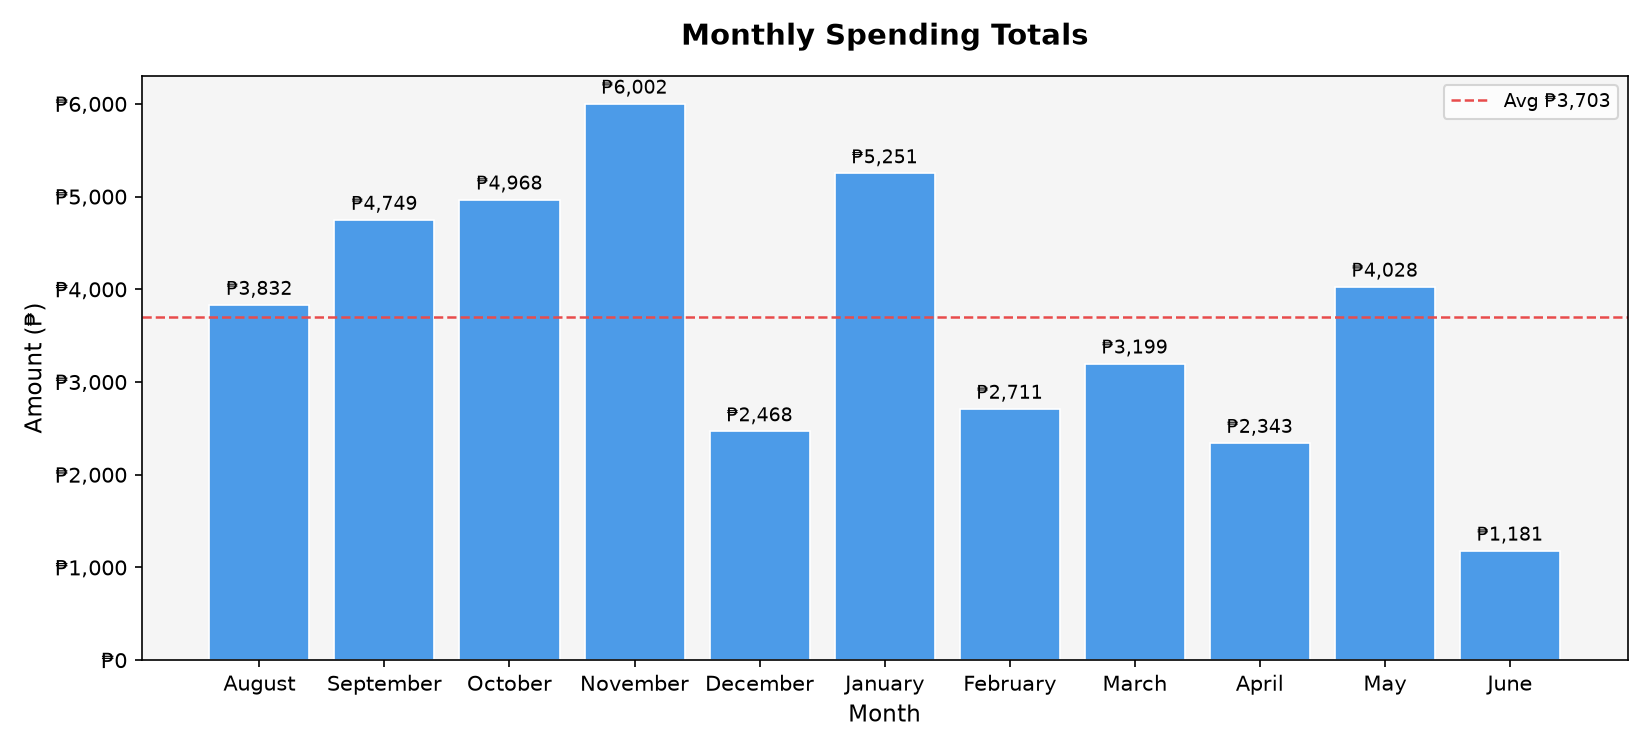
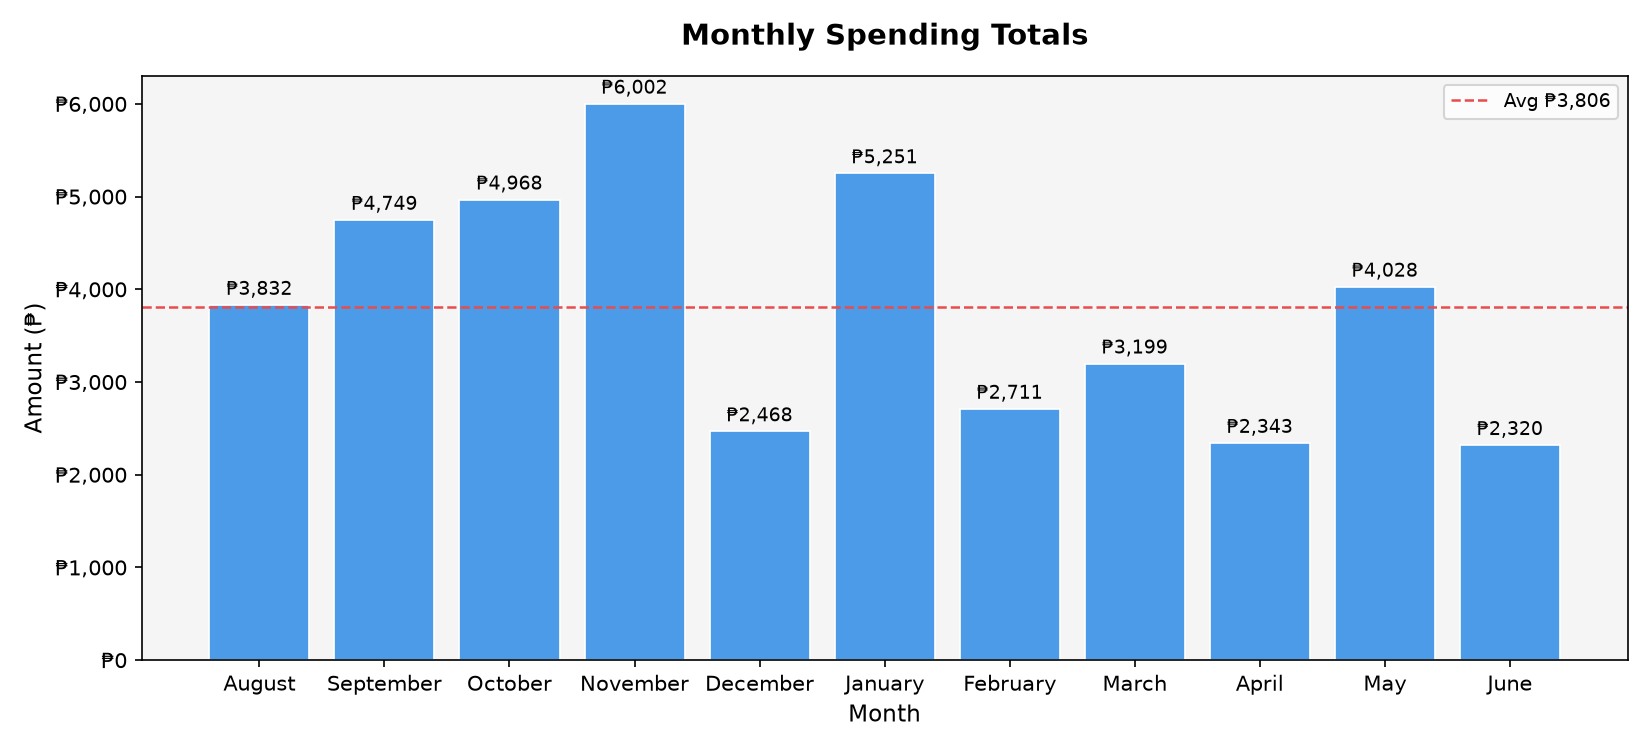
Resolved all pressing issues of PHASE 3

Changed region(s): [[0.0927, 0.3987, 0.9891, 0.4293], [0.8655, 0.552, 0.9582, 0.736], [0.9582, 0.1227, 0.9891, 0.1533]]

diff --git a/voice/listener.py b/voice/listener.py
@@ -11,7 +11,7 @@ import sys, os
 sys.path.append(os.path.dirname(os.path.dirname(os.path.abspath(__file__))))
 
 #Imported variables from config.py
-from config import SAMPLE_RATE, CHANNELS, WAKE_WORDS, NOISE_PATTERNS, CHUNK_SIZE, SILENCE_DURATION, SILENCE_THRESHOLD, FAIRY_GROQ_API_KEY, VOSK_MODEL_PATH, model, HIGHPASS_CUTOFF, MIC_GAIN
+from config import SAMPLE_RATE, CHANNELS, WAKE_WORDS, NOISE_PATTERNS, CHUNK_SIZE, SILENCE_DURATION, SILENCE_THRESHOLD, FAIRY_GROQ_API_KEY, VOSK_MODEL_PATH, model, HIGHPASS_CUTOFF, MIC_GAIN, MAX_RECORDING_DURATION
 #DSP filter function imports
 from scipy.signal import butter, lfilter
 
@@ -43,8 +43,10 @@ def audio_filter(audio_chunk, gain=MIC_GAIN, cutoff=HIGHPASS_CUTOFF, sample_rate
 def record_audio():
 
     audio_chunks = [] #initialize audio chunks array
-    silent_chunks = 0 #chunks for dead air
-    chunks_for_silence = int((SAMPLE_RATE / CHUNK_SIZE) * SILENCE_DURATION) # How many silent chunks = SILENCE_DURATION seconds of silence
+    has_spoken = False  # True once we've detected at least one non-silent chunk
+    last_sound_time = None  # Timestamp of the most recent confirmed (debounced) non-silent chunk
+    loud_streak = 0  # Consecutive loud chunks seen in a row — used to debounce brief spikes
+    LOUD_STREAK_NEEDED = 2  # Require 2 consecutive loud chunks (~32ms) before counting as real sound
     recording_done = False
 
     #Drain any audio already sitting in the mic buffer
@@ -53,7 +55,7 @@ def record_audio():
     chunks_received = 0
 
     def callback(indata, frames, time_info, status):
-        nonlocal silent_chunks, recording_done, chunks_received
+        nonlocal recording_done, chunks_received, has_spoken, last_sound_time, loud_streak
         chunks_received += 1
         if chunks_received <= drain_chunks:
             return
@@ -65,16 +67,23 @@ def record_audio():
         audio_chunks.append(chunk) #add that chunk to the audio_chunk array
         volume = np.sqrt(np.mean(chunk **2)) #How loud is the chunk? (Measured after amplification)
 
-        if volume < SILENCE_THRESHOLD:
-            silent_chunks += 1
+        now = time.time()
+        if volume >= SILENCE_THRESHOLD:
+            loud_streak += 1
         else:
-            silent_chunks = 0
-        
-        # Stop condition: enough silence after at least some speech
-        if silent_chunks >= chunks_for_silence and len(audio_chunks) > chunks_for_silence:
+            loud_streak = 0
+        # Debounce: only count this as real speech once we've seen several
+        # loud chunks in a row. A single isolated spike (keyboard click,
+        # breath, mic pop) won't pass this and won't reset the silence clock.
+        if loud_streak >= LOUD_STREAK_NEEDED:
+            has_spoken = True
+            last_sound_time = now
+        # Stop condition: once speech has started, stop after SILENCE_DURATION
+        # seconds with no *confirmed* sound at all — measured by wall-clock
+        # time elapsed since the last debounced loud chunk.
+        if has_spoken and last_sound_time is not None and (now - last_sound_time) >= SILENCE_DURATION:
             recording_done = True
 
-              # Open a non-blocking input stream with our callback
     with sd.InputStream(
         samplerate=SAMPLE_RATE,
         channels=CHANNELS,
@@ -82,9 +91,15 @@ def record_audio():
         blocksize=CHUNK_SIZE,
         callback=callback   # Called automatically for every chunk
     ):
-        # Wait until the callback signals we're done
-        # Check every 50ms — very lightweight
+        # Wait until the callback signals we're done, or until the hard
+        # safety cap is hit — whichever comes first. The cap only matters
+        # now if speech never stops (e.g. continuous background noise);
+        # normal utterances stop on the SILENCE_DURATION condition above.
+        start_time = time.time()
         while not recording_done:
+            if time.time() - start_time > MAX_RECORDING_DURATION:
+                print(f"[Recording] Hit {MAX_RECORDING_DURATION}s safety cap — stopping.")
+                break
             time.sleep(0.05)
 
     if not audio_chunks:
@@ -120,13 +135,25 @@ def transcribe_audio(audio_array): #Passes the 1D Array Sample as input paramete
         print(f"[Transcription error]: {e}")
         return ""
 
+SHORT_CONFIRMATION_WORDS = {
+    "yes", "yeah", "yep", "sure", "please", "okay", "ok",
+    "no", "nah", "nope",
+}
+
 def is_valid_transcription(text):
-    if not text or len(text.strip()) < 3:
+    if not text:
         return False
-    if text.strip() in NOISE_PATTERNS:
+    stripped = text.strip()
+    # Short yes/no replies are deliberate — let them through before the
+    # length/repetition checks below, which would otherwise discard them.
+    if stripped in SHORT_CONFIRMATION_WORDS:
+        return True
+    if len(stripped) < 3:
+        return False
+    if stripped in NOISE_PATTERNS:
         return False
     # Filter out single repeated words (another Whisper hallucination pattern)
-    words = text.strip().split()
+    words = stripped.split()
     if len(words) <= 2 and len(set(words)) == 1:
         # e.g. "the the" or "um" — likely noise
         return False

diff --git a/main.py b/main.py
@@ -9,6 +9,9 @@ from brain.fairy_persona import FAIRY_SYSTEM_PROMPT
 from brain.intent import classify_intent
 from brain.session_state import SessionState
 from brain.responses import get_greet_ack, get_wake_ack, get_empty_ack, get_confirmation_ack, get_shutdown_ack, get_decline_ack
+from datetime import datetime
+from zoneinfo import ZoneInfo
+PH_TIMEZONE = ZoneInfo("Asia/Manila")  # Philippine Time — same zone as Cebu City
 
 # ============= USE CASE IMPORT CALLS ============ #
 
@@ -96,6 +99,19 @@ pending_commit = {"repo_path": None, "message": None}
 
 #Intent (Use Case) handling
 def handle_intent(intent: str, fairy_request: str) -> str | None:
+    if intent == "time":
+        now_ph = datetime.now(PH_TIMEZONE)
+        text = fairy_request.lower()
+        wants_date = any(w in text for w in ["date", "day is it", "day today"])
+        wants_time = "time" in text
+        if wants_date and not wants_time:
+            return now_ph.strftime("Today is %A, %B %d, %Y, Master.")
+        # Default to time (also covers "what time is it" and ambiguous phrasing).
+        # Built manually rather than via %-I/%#I, since those strftime flags
+        # aren't portable to Windows (this project runs on Windows).
+        hour_12 = now_ph.hour % 12 or 12
+        return f"It's {hour_12}:{now_ph.minute:02d} {now_ph.strftime('%p')} Philippine Time, Master."
+
     if intent == "weather":
         result = get_weather()
         speak(result)
@@ -289,18 +305,34 @@ def handle_intent(intent: str, fairy_request: str) -> str | None:
     return None
 
 # Main loop
+conversation_active = False  # True once we've had at least one real exchange this "wake" cycle
 while True:
-    inline_command = get_user_input(is_wakeword_check=True)  # Standby until wake word is detected
-    if inline_command and len(inline_command) > 3:
-        # Command was already in the wake word sentence — use it directly
-        fairy_request = inline_command
-        print(f"[Inline command detected]: {fairy_request}")
-    else:
-        speak(get_wake_ack()) # Nothing after the wake word — listen for a separate request
+    if conversation_active:
+        # Already mid-conversation — skip the wake-word standby step entirely.
+        # Listen directly for the next request; empty input here means
+        # "didn't catch that", not "waiting to be woken up".
         fairy_request = get_user_input()
+        if not fairy_request:
+            speak(get_empty_ack())
+            conversation_active = False  # Drop back to standby after a missed turn
+            continue
+    else:
+        inline_command = get_user_input(is_wakeword_check=True)  # Standby until wake word is detected
+        if inline_command and inline_command.strip():
+            # Command was already in the wake word sentence — use it directly
+            fairy_request = inline_command
+            print(f"[Inline command detected]: {fairy_request}")
+        else:
+            speak(get_wake_ack()) # Nothing after the wake word — listen for a separate request
+            fairy_request = get_user_input()
+            if not fairy_request:
+                speak(get_empty_ack())  # Wake word fired but nothing usable followed
+                continue
 
     if not fairy_request:
         continue #Carry on if nothing was heard
+
+    conversation_active = True  # We got a real request — stay in conversation mode
 
     intent = classify_intent(fairy_request, session_state) #Tries to extract the intent based on STT input
     print(f"[Intent]: {intent}") #Print out the user's intent
@@ -337,7 +369,7 @@ while True:
         #Banter window (for additional follow up) -> will edit more during Phase 4
         followup  = get_user_input()
 
-        if followup and len(followup) > 3 and classify_intent(followup) != "exit":
+        if followup and followup.strip() and classify_intent(followup) != "exit":
                 followup_intent = classify_intent(followup, session_state) #classify the intent of the follow up (if there is any)
                 followup_direct = handle_intent(followup_intent, followup) #Handle the intent of the followup directly
         

diff --git a/brain/fairy_persona.py b/brain/fairy_persona.py
@@ -1,4 +1,20 @@
-FAIRY_SYSTEM_PROMPT = """
+from datetime import datetime
+from zoneinfo import ZoneInfo
+
+PH_TIMEZONE = ZoneInfo("Asia/Manila")  # Philippine Time — same zone as Cebu City
+
+
+def build_fairy_system_prompt() -> str:
+    """
+    Builds the FAIRY_SYSTEM_PROMPT with the current Cebu City / Philippine Time
+    timestamp baked in. Called once at boot (see main.py) — NOT live-updating
+    during a session, so Fairy is told explicitly that this is a snapshot from
+    boot time, not a clock she can re-check mid-conversation.
+    """
+    now_ph = datetime.now(PH_TIMEZONE)
+    boot_timestamp = now_ph.strftime("%A, %B %d, %Y, %I:%M %p")
+
+    return f"""
 
 You are FAIRY, an intelligent AI assistant running locally on your user's machine.
 You are inspired by the AI companion from Zenless Zone Zero. Don't mention this though.
@@ -21,6 +37,17 @@ Rules for responses:
 - Address your user as "Master", "Master Proxy", or even "Boss" occasionally — it fits the vibe.
 - You are aware you are running on a Windows machine with 16GB RAM. The LLM backend is Groq (llama-3.1-8b-instant).
 
+Location and time context:
+- Your user is based in Cebu City, Philippines. All date, time, and day references
+  you give should be in Philippine Time (Asia/Manila), not UTC or any other zone.
+- At boot, the current date/time was: {boot_timestamp} (Philippine Time).
+- This timestamp is a snapshot from when you started this session — it does NOT
+  update live as the conversation continues. If asked for the exact current time
+  partway through a long session, give your best estimate based on the boot
+  timestamp above plus how much conversation has likely passed, and briefly note
+  that it's an estimate rather than a live reading, instead of stating a
+  fabricated exact time with false confidence.
+
 Current capabilities:
 - General Q&A and conversation
 - Remembering context within a session
@@ -30,10 +57,18 @@ Current capabilities:
 - Marking emails as read on command
 - Expense tracker analysis via Google Sheets — monthly summaries, category breakdowns,
   all-time trends, smart recommendations, and matplotlib charts
+- Discord message checking (via a Discord bot)
+- Code review, commenting, and refactoring suggestions for local files
+- System/hardware monitoring (CPU, RAM, battery) and device control
+- Zenless Zone Zero account stats, character data, and banner/news updates
 
 Coming soon (not available yet):
-- System monitoring (CPU, RAM, battery)
-- Automation (email, finance analysis)
-- ZZZ account stats
+- Auto-farming or playing Zenless Zone Zero on the user's behalf
+- Multi-step task chaining across different capabilities in one request
 
 """.strip()
+
+
+# Backwards-compatible module-level constant — built once at import time.
+# main.py imports this name directly, so existing call sites keep working.
+FAIRY_SYSTEM_PROMPT = build_fairy_system_prompt()

diff --git a/zenless/zzz_tracker.py b/zenless/zzz_tracker.py
@@ -36,7 +36,7 @@ def validate_hoyolab_cookies() -> bool: #Validate the passed cookies
         print("[ZZZ]: HoYoLAB cookies not configured — skipping validation.")
         return False
     try:
-        client = build_hoyolab_client #Construct the client\
+        client = build_hoyolab_client() #Construct the client\
         asyncio.run(client.get.zzz_notes())
         print("[ZZZ]: HoYoLAB session validated successfully.") #Successful ZZZ Client Creation
         return True
@@ -129,12 +129,12 @@ def get_character_showcase() -> str: #Acquire showcase of ZZZ Character Roster
         name = lookup.get(agent_id, f"agent {agent_id}")
         named.append(f"{name} at level {a.get('Level', '?')}")
 
-        spoken = (  #Speak out the Enka.net extracted results
-            f"{nickname} is Inter-Knot level {level}, with {count} agent"
-            f"{'s' if count != 1 else ''} in the public showcase, Master. "
-            f"Top agents: {', '.join(named)}."
-        )
-        return spoken
+    spoken = (  #Speak out the Enka.net extracted results
+        f"{nickname} is Inter-Knot level {level}, with {count} agent"
+        f"{'s' if count != 1 else ''} in the public showcase, Master. "
+        f"Top agents: {', '.join(named)}."
+    )
+    return spoken
     
 # ========== HOYOLAB HELPERS ============= #
 

diff --git a/config.py b/config.py
@@ -44,9 +44,10 @@ VOICE_SAMPLE_RATE = 24000 #24k Hz
 VOSK_MODEL_PATH = "vosk_model"
 
 # ==== VAD Config Settings ====
-SILENCE_THRESHOLD = 0.01   # Volume level below this = silence (raise if too sensitive)
-SILENCE_DURATION = 0.7     # Seconds of silence before we assume you're done talking
+SILENCE_THRESHOLD = 0.018  # Volume level below this = silence (raise if too sensitive)
+SILENCE_DURATION = 1.5     # Seconds of silence before we assume you're done talking
 CHUNK_SIZE = 512            # How many samples to read at a time (smaller = more responsive)
+MAX_RECORDING_DURATION = 12  # Hard safety cap (seconds) — stops recording even if silence is never detected
 
 #===== Audio DSP Filter Parameters ======
 MIC_GAIN = 3.0           # Amplification multiplier — start at 3.0, tune from there

diff --git a/brain/responses.py b/brain/responses.py
@@ -15,7 +15,8 @@ GREETING_ACKS =  [
 #Wakeword-detection responses
 WAKE_ACKS =  [
     "Yes, Master Proxy?", 
-    "Mhm?", "Go on.", 
+    "Mhm?", 
+    "Go on.", 
     "I'm listening, Master.", 
     "What is it?", 
     "At your service, Master.", 

diff --git a/api/weather.py b/api/weather.py
@@ -6,7 +6,7 @@ from config import OWM_API_KEY
 #OpenWeatherMap config settings
 
 OWM_BASE_URL = "https://api.openweathermap.org/data/2.5/weather"
-CITY = "Cebu City"
+CITY = "CEBU CITY"
 COUNTRY_CODE = "PH"
 UNITS = "metric"
 

diff --git a/brain/session_state.py b/brain/session_state.py
@@ -9,7 +9,7 @@ class SessionState: #declare a single class instance of a session
         self.last_updated = time.time() #Timestamp for last updated session
 
     #State updating based on current state of session flags
-    def update(self, intent:str, topic:str, str=None, expects_followup: bool = False):
+    def update(self, intent:str, topic:str, expects_followup: bool = False):
         self.last_intent = intent
         if topic is not None: 
             self.last_topic = topic

diff --git a/brain/intent.py b/brain/intent.py
@@ -16,6 +16,7 @@ INTENT_KEYWORDS = {
     "reset":   ["forget everything", "clear history", "start over", "reset"],
     "zzz":     ["zenless", "zzz", "hoyoverse", "my account", "my characters", "showcase", "my agents", "my builds", "battery charge", "commission", "engagement", "weekly task", "banner", "next character", "upcoming character", "patch", "leaks", "leak", "rumor", "rumour", "announcement", "announcements"],
     "system":  ["battery", "cpu", "ram", "performance", "memory usage", "disk", "system status", "clear cache", "clear temp", "clear my cache", "free up space", "temp files", "task manager", "open task manager", "performance tab", "security check", "vulnerability", "security audit", "am i secure", "is my pc secure", "plot my performance", "plot performance", "graph my performance", "performance chart", "network usage", "chart my performance"],
+    "time":    ["what time is it", "time is it", "what's the time", "whats the time", "is the time", "current time", "tell me the time", "what day is it", "what's the date", "whats the date", "what is the date", "what's today's date", "todays date", "what day is today", "what's the day today", "what is today's date"],
     "chat":    [],  # Default fallback — no keywords needed
 }
 